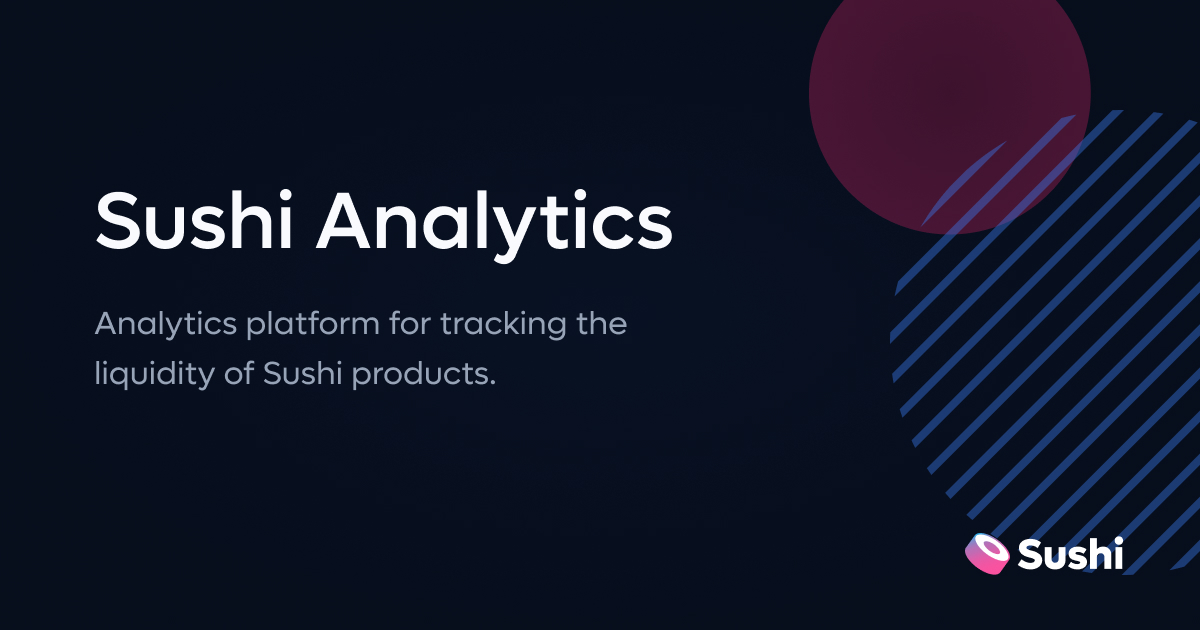
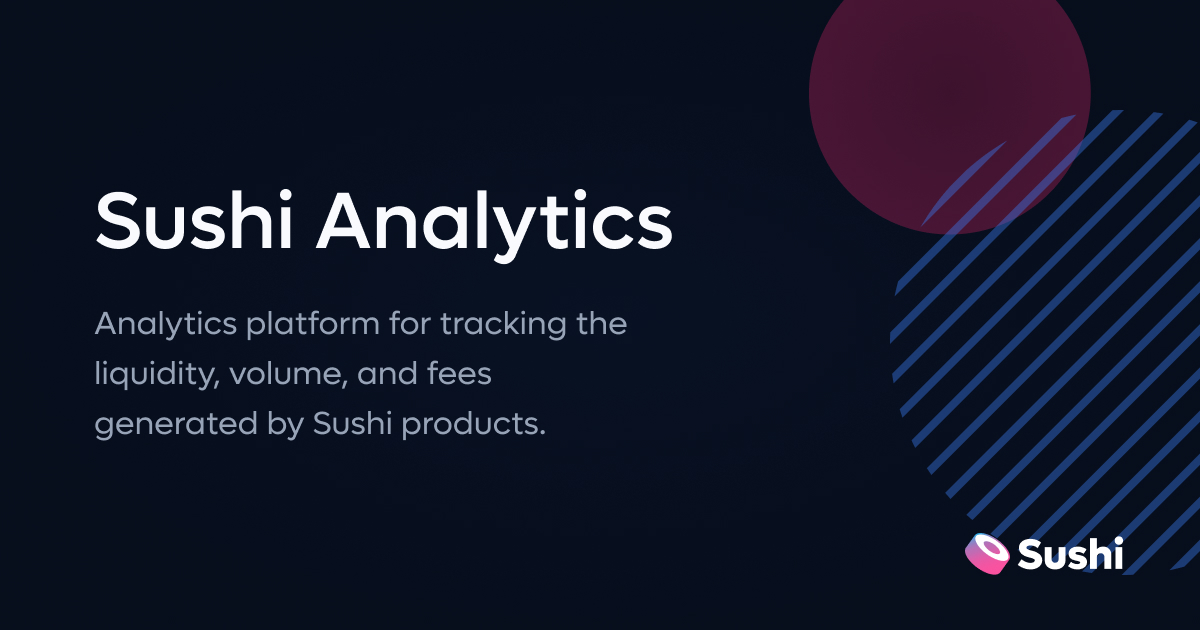
chore(apps/analytics): improve og description

Changed region(s): [[0.185, 0.573, 0.4008, 0.6333], [0.0617, 0.6635, 0.4625, 0.6937]]

diff --git a/apps/analytics/pages/index.tsx b/apps/analytics/pages/index.tsx
@@ -96,7 +96,7 @@ const _Index = () => {
           <div className="max-w-md space-y-4">
             <h2 className="text-2xl font-semibold text-slate-50">Sushi Analytics</h2>
             <p className="text-slate-300">
-              Dive deeper in the analytics of Sushi Bar, BentoBox, Pools, Farms and Tokens.
+              Analytics platform for tracking the liquidity, volume, and fees generated by Sushi products.
             </p>
           </div>
         </section>
